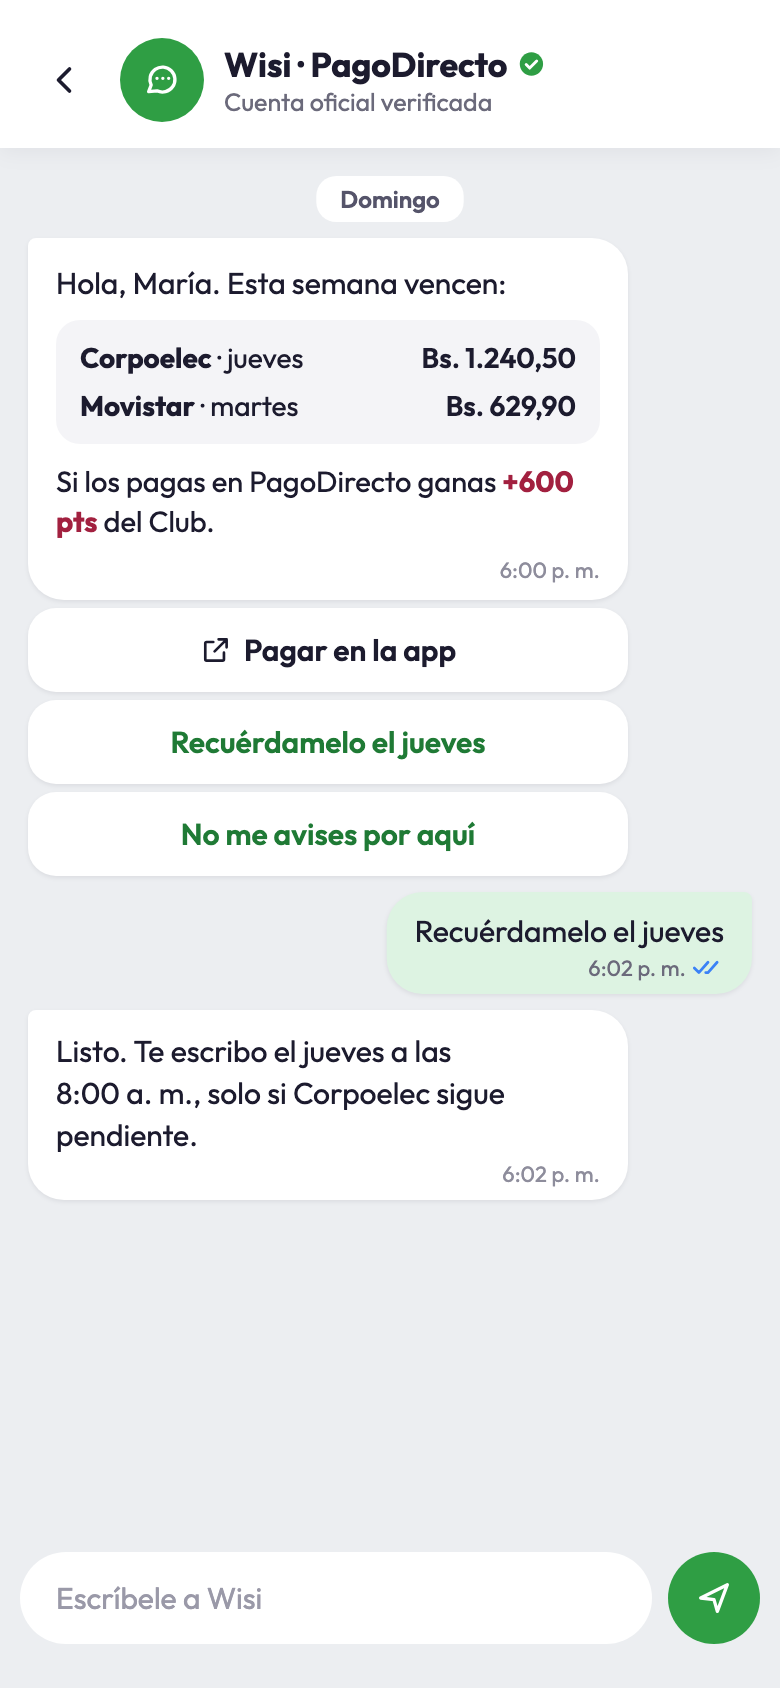
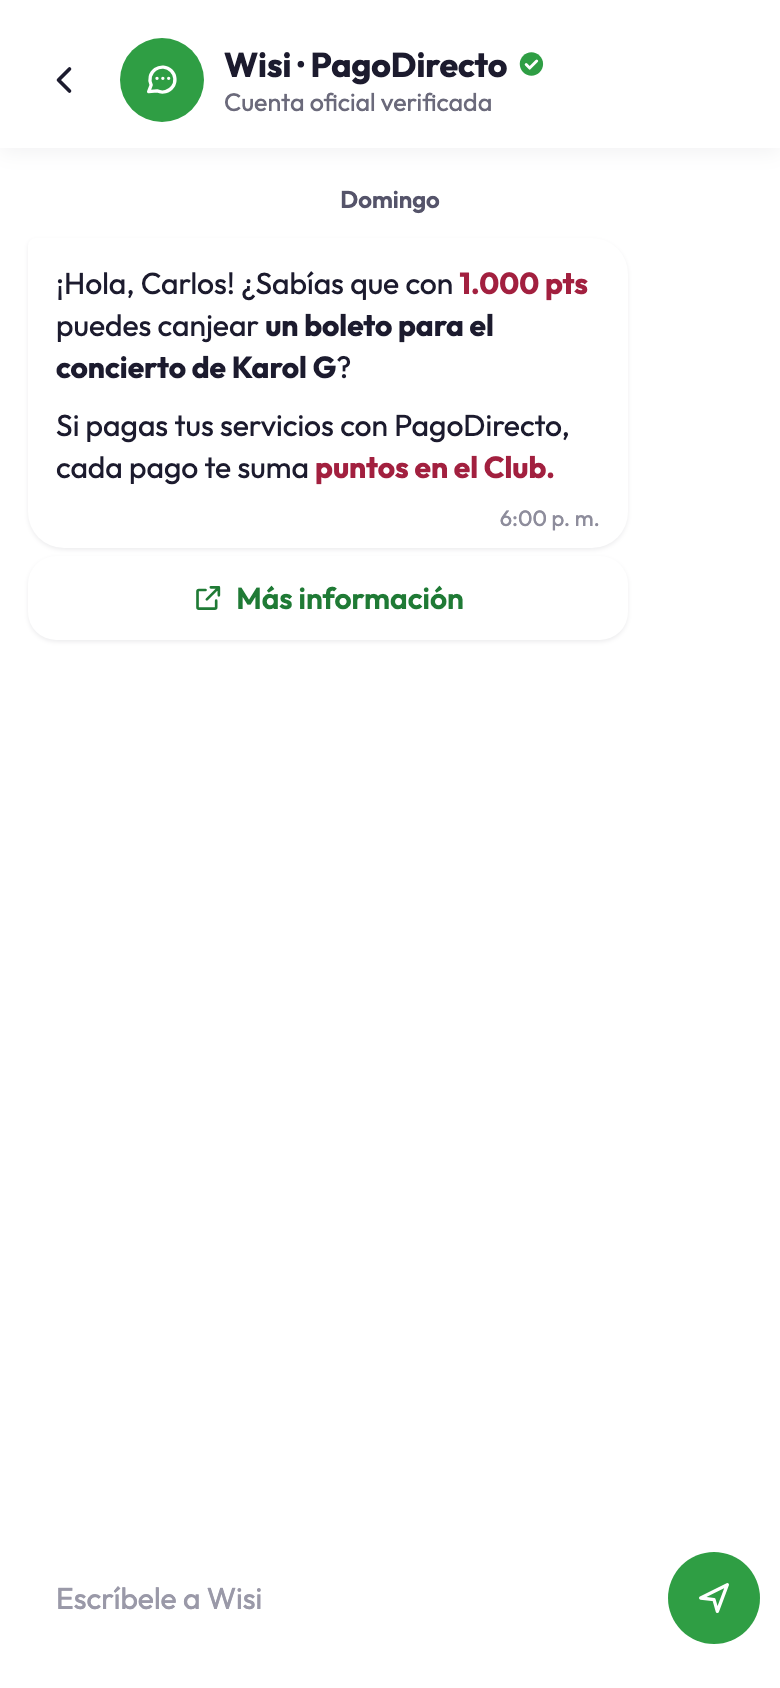
Update: Se cambio el mensaje de wisi

diff --git a/gtm_ventacruzada/lib/pantallas/wisi/pantalla_wisi.dart b/gtm_ventacruzada/lib/pantallas/wisi/pantalla_wisi.dart
@@ -3,18 +3,19 @@ import 'package:go_router/go_router.dart';
 
 import '../../componentes/icono.dart';
 import '../../componentes/presionable.dart';
+import '../../datos/datos_demo.dart';
 import '../../datos/demo_store.dart';
 import '../../datos/modelos.dart';
 import '../../tema/formato.dart';
 import '../../tema/tokens.dart';
 
-const _fondoChat = Color(0xFFECEEF1);
+const _fondoChat = PdColor.superficie;
 const _verdePropio = Color(0xFFDDF3E2);
 const _horaGris = Color(0xFF8E8D9C);
 final _sombraBurbuja = sombraCss(1, 2, const Color.fromRGBO(28, 27, 46, 0.08));
 
-/// P5 · Wisi por WhatsApp (simulado). El resumen del domingo se genera con los
-/// pagos pendientes y las respuestas rápidas tienen efecto real en la demo.
+/// P5 · Wisi por WhatsApp (simulado). El domingo Wisi no habla de deudas: usa
+/// un premio del Club como gancho y «Más información» lleva al Club.
 class PantallaWisi extends StatefulWidget {
   const PantallaWisi({super.key});
 
@@ -90,8 +91,8 @@ class _PantallaWisiState extends State<PantallaWisi> {
                 ),
                 for (final m in chat) ...[
                   const SizedBox(height: 8),
-                  if (m.tipo == TipoMensaje.resumen)
-                    _Resumen(mensaje: m)
+                  if (m.tipo == TipoMensaje.premio)
+                    _Premio(mensaje: m)
                   else if (m.deWisi)
                     _BurbujaWisi(texto: m.texto, hora: m.hora)
                   else
@@ -203,17 +204,18 @@ class _Encabezado extends StatelessWidget {
   }
 }
 
-/// Mensaje del domingo con la tabla de vencimientos y las respuestas rápidas.
-class _Resumen extends StatelessWidget {
-  const _Resumen({required this.mensaje});
+/// Mensaje del domingo: el premio del Club como gancho, sin montos ni
+/// vencimientos, y un solo botón que lleva al Club.
+class _Premio extends StatelessWidget {
+  const _Premio({required this.mensaje});
 
   final MensajeChat mensaje;
 
   @override
   Widget build(BuildContext context) {
-    final store = Demo.of(context);
-    final pendientes = store.pendientes;
-    final ocupado = store.wisiEscribiendo;
+    const rosa = TextStyle(color: PdColor.acentoOscuro, fontWeight: FontWeight.w700);
+    const fuerte = TextStyle(fontWeight: FontWeight.w700);
+    final cuerpo = letra(15, FontWeight.w400, PdColor.tinta, 1.4);
 
     return Align(
       alignment: Alignment.centerLeft,
@@ -237,59 +239,28 @@ class _Resumen extends StatelessWidget {
               child: Column(
                 crossAxisAlignment: CrossAxisAlignment.stretch,
                 children: [
-                  Text(
-                    pendientes.isEmpty
-                        ? '${mensaje.texto} Esta semana no tienes vencimientos.'
-                        : '${mensaje.texto} Esta semana vencen:',
-                    style: letra(15, FontWeight.w400, PdColor.tinta, 1.4),
+                  Text.rich(
+                    TextSpan(
+                      children: [
+                        TextSpan(text: '${mensaje.texto} ¿Sabías que con '),
+                        TextSpan(text: '${miles(premioWisi.puntos)} pts', style: rosa),
+                        const TextSpan(text: ' puedes canjear '),
+                        TextSpan(text: premioWisi.texto, style: fuerte),
+                        const TextSpan(text: '?'),
+                      ],
+                    ),
+                    style: cuerpo,
                   ),
-                  if (pendientes.isNotEmpty) ...[
-                    const SizedBox(height: 8),
-                    Container(
-                      padding: const EdgeInsets.symmetric(horizontal: 12, vertical: 10),
-                      decoration: BoxDecoration(color: PdColor.fondo, borderRadius: BorderRadius.circular(12)),
-                      child: Column(
-                        children: [
-                          for (final (i, p) in pendientes.indexed) ...[
-                            if (i > 0) const SizedBox(height: 6),
-                            Row(
-                              children: [
-                                Expanded(
-                                  child: Text.rich(
-                                    TextSpan(
-                                      children: [
-                                        TextSpan(
-                                          text: p.empresa,
-                                          style: const TextStyle(fontWeight: FontWeight.w700),
-                                        ),
-                                        TextSpan(text: ' · ${diaSemana(p.vence)}'),
-                                      ],
-                                    ),
-                                    style: letra(14),
-                                  ),
-                                ),
-                                Text(bsPunto(p.centimos), style: letra(14, FontWeight.w600)),
-                              ],
-                            ),
-                          ],
-                        ],
-                      ),
+                  const SizedBox(height: 8),
+                  Text.rich(
+                    const TextSpan(
+                      children: [
+                        TextSpan(text: 'Si pagas tus servicios con PagoDirecto, cada pago te suma '),
+                        TextSpan(text: 'puntos en el Club.', style: rosa),
+                      ],
                     ),
-                    const SizedBox(height: 8),
-                    Text.rich(
-                      TextSpan(
-                        children: [
-                          const TextSpan(text: 'Si los pagas en PagoDirecto ganas '),
-                          TextSpan(
-                            text: pts(store.puntosPendientes),
-                            style: const TextStyle(color: PdColor.acentoOscuro, fontWeight: FontWeight.w700),
-                          ),
-                          const TextSpan(text: ' del Club.'),
-                        ],
-                      ),
-                      style: letra(14.5, FontWeight.w400, PdColor.tinta, 1.4),
-                    ),
-                  ],
+                    style: cuerpo,
+                  ),
                   const SizedBox(height: 8),
                   Align(
                     alignment: Alignment.centerRight,
@@ -299,24 +270,7 @@ class _Resumen extends StatelessWidget {
               ),
             ),
             const SizedBox(height: 4),
-            _Respuesta(
-              texto: store.textoRespuesta(RespuestaWisi.pagarEnApp),
-              icono: Ico.abrirExterno,
-              color: PdColor.tinta,
-              onTap: () => context.go('/mis-pagos'),
-            ),
-            const SizedBox(height: 4),
-            _Respuesta(
-              texto: store.textoRespuesta(RespuestaWisi.recordarJueves),
-              onTap: ocupado ? null : () => store.responderWisi(RespuestaWisi.recordarJueves),
-            ),
-            const SizedBox(height: 4),
-            _Respuesta(
-              texto: store.textoRespuesta(RespuestaWisi.noAvisarAqui),
-              onTap: ocupado || !store.perfil.ajustes.whatsapp
-                  ? null
-                  : () => store.responderWisi(RespuestaWisi.noAvisarAqui),
-            ),
+            _Respuesta(texto: 'Más información', icono: Ico.abrirExterno, onTap: () => context.push('/club')),
           ],
         ),
       ),
@@ -325,12 +279,13 @@ class _Resumen extends StatelessWidget {
 }
 
 class _Respuesta extends StatelessWidget {
-  const _Respuesta({required this.texto, required this.onTap, this.icono, this.color = PdColor.exitoTexto});
+  const _Respuesta({required this.texto, required this.onTap, this.icono});
 
   final String texto;
-  final VoidCallback? onTap;
+  final VoidCallback onTap;
   final Ico? icono;
-  final Color color;
+
+  static const _color = PdColor.exitoTexto;
 
   @override
   Widget build(BuildContext context) {
@@ -349,8 +304,8 @@ class _Respuesta extends StatelessWidget {
         child: Row(
           mainAxisSize: MainAxisSize.min,
           children: [
-            if (icono != null) ...[IconoPd(icono!, tamano: 16, color: color), const SizedBox(width: 6)],
-            Text(texto, style: letra(15, FontWeight.w600, color)),
+            if (icono != null) ...[IconoPd(icono!, tamano: 16, color: _color), const SizedBox(width: 6)],
+            Text(texto, style: letra(15, FontWeight.w600, _color)),
           ],
         ),
       ),

diff --git a/gtm_ventacruzada/lib/datos/demo_store.dart b/gtm_ventacruzada/lib/datos/demo_store.dart
@@ -55,13 +55,6 @@ class DemoStore extends ChangeNotifier {
   static const puntosPrimerServicio = 200;
   static const puntosPrimeraVez = 100;
 
-  /// El pago al que Wisi se refiere: el de riesgo de corte o, si no, el primero.
-  Pago? get pagoClave {
-    final p = pendientes;
-    if (p.isEmpty) return null;
-    return p.firstWhere((x) => x.prioritario, orElse: () => p.first);
-  }
-
   /// Las misiones de pagar un servicio desaparecen cuando ya está pagado.
   List<Mision> get misiones => perfil.misiones
       .where((m) => m.accion != AccionMision.pagarServicio || pendientes.any((p) => p.id == m.id))
@@ -208,9 +201,9 @@ class DemoStore extends ChangeNotifier {
     perfil.chat.add(
       MensajeChat(
         deWisi: true,
-        texto: 'Hola, ${perfil.nombre}.',
+        texto: '¡Hola, ${perfil.nombre}!',
         hora: hora(perfil.ajustes.hora),
-        tipo: TipoMensaje.resumen,
+        tipo: TipoMensaje.premio,
       ),
     );
   }
@@ -221,37 +214,7 @@ class DemoStore extends ChangeNotifier {
     return hora(TimeOfDay(hour: minutos ~/ 60 % 24, minute: minutos % 60));
   }
 
-  String textoRespuesta(RespuestaWisi r) => switch (r) {
-    RespuestaWisi.pagarEnApp => 'Pagar en la app',
-    RespuestaWisi.recordarJueves =>
-      pagoClave == null ? 'Recuérdamelo luego' : 'Recuérdamelo el ${diaSemana(pagoClave!.vence)}',
-    RespuestaWisi.noAvisarAqui => 'No me avises por aquí',
-  };
-
-  Future<void> responderWisi(RespuestaWisi r) async {
-    if (r == RespuestaWisi.pagarEnApp || wisiEscribiendo) return;
-    final clave = pagoClave;
-    perfil.chat.add(MensajeChat(deWisi: false, texto: textoRespuesta(r), hora: _horaRespuesta));
-    wisiEscribiendo = true;
-    notifyListeners();
-
-    await Future<void>.delayed(const Duration(milliseconds: 900));
-    final respuesta = switch (r) {
-      RespuestaWisi.recordarJueves when clave != null =>
-        'Listo. Te escribo el ${diaSemana(clave.vence)} a las ${hora(const TimeOfDay(hour: 8, minute: 0))}, '
-            'solo si ${clave.empresa} sigue pendiente.',
-      RespuestaWisi.recordarJueves => 'Ya estás al día. Te escribo con tu próximo resumen.',
-      _ =>
-        'Hecho. No te escribo más por aquí. Tu resumen sigue llegando en la app '
-            'y puedes cambiarlo en Tus avisos.',
-    };
-    if (r == RespuestaWisi.noAvisarAqui) perfil.ajustes.whatsapp = false;
-    perfil.chat.add(MensajeChat(deWisi: true, texto: respuesta, hora: _horaRespuesta));
-    wisiEscribiendo = false;
-    notifyListeners();
-  }
-
-  /// Texto libre: Wisi solo entiende los botones en la demo.
+  /// Texto libre: en la demo Wisi responde siempre lo mismo.
   Future<void> escribirAWisi(String texto) async {
     if (texto.trim().isEmpty || wisiEscribiendo) return;
     perfil.chat.add(MensajeChat(deWisi: false, texto: texto.trim(), hora: _horaRespuesta));
@@ -261,7 +224,7 @@ class DemoStore extends ChangeNotifier {
     perfil.chat.add(
       MensajeChat(
         deWisi: true,
-        texto: 'Por ahora te ayudo con los botones de arriba: pagar, recordarte o dejar de escribirte por aquí.',
+        texto: 'Toca «Más información» y te cuento cómo sumar puntos en el Club con tus pagos.',
         hora: _horaRespuesta,
       ),
     );

diff --git a/gtm_ventacruzada/test/widget_test.dart b/gtm_ventacruzada/test/widget_test.dart
@@ -133,18 +133,25 @@ void main() {
     expect(tester.takeException(), isNull);
   });
 
-  testWidgets('Wisi responde y «No me avises por aquí» apaga WhatsApp (P5, P8)', (tester) async {
-    final store = await abrir(tester, ruta: '/wisi');
-    expect(find.text('Hola, María. Esta semana vencen:'), findsOneWidget);
-    await tocar(tester, 'Recuérdamelo el jueves');
-    await tester.pump(const Duration(seconds: 1));
-    await tester.pumpAndSettle();
-    expect(find.text('Listo. Te escribo el jueves a las 8:00\u00A0a.\u00A0m., solo si Corpoelec sigue pendiente.'), findsOneWidget);
+  testWidgets('Wisi engancha con el premio, sin montos, y «Más información» abre el Club (P5)', (tester) async {
+    final store = await abrir(tester, ruta: '/wisi?perfil=carlos');
+    expect(
+      find.text(
+        '¡Hola, Carlos! ¿Sabías que con 1.000 pts puedes canjear un boleto para el concierto de Karol G?',
+        findRichText: true,
+      ),
+      findsOneWidget,
+    );
+    expect(find.textContaining('Bs', findRichText: true), findsNothing);
 
-    await tocar(tester, 'No me avises por aquí');
+    await tester.enterText(find.byType(TextField), 'Hola');
+    await tester.testTextInput.receiveAction(TextInputAction.send);
     await tester.pump(const Duration(seconds: 1));
     await tester.pumpAndSettle();
-    expect(store.perfil.ajustes.whatsapp, isFalse);
+    expect(store.perfil.chat.length, 3);
+
+    await tocar(tester, 'Más información');
+    expect(find.text('Misiones para ti'), findsOneWidget);
     expect(tester.takeException(), isNull);
   });
 

diff --git a/gtm_ventacruzada/lib/componentes/icono.dart b/gtm_ventacruzada/lib/componentes/icono.dart
@@ -37,9 +37,7 @@ enum Ico {
   depositar(
     '<svg viewBox="0 0 24 24" fill="none" stroke="currentColor" stroke-width="1.8" stroke-linecap="round" stroke-linejoin="round"><rect x="3" y="7" width="18" height="12" rx="3"/><path d="M8 13h8M12 9v8"/></svg>',
   ),
-  desplegar(
-    '<svg viewBox="0 0 24 24" fill="currentColor"><path d="M5 8h14l-7 9z"/></svg>',
-  ),
+  desplegar('<svg viewBox="0 0 24 24" fill="currentColor"><path d="M5 8h14l-7 9z"/></svg>'),
   dobleCheck(
     '<svg viewBox="0 0 28 16" fill="none" stroke="currentColor" stroke-width="2.4" stroke-linecap="round" stroke-linejoin="round"><path d="M2 8l4 4 8-9M12 12l2 0M14 12l8-9"/></svg>',
   ),

diff --git a/gtm_ventacruzada/tool/capturas_test.dart b/gtm_ventacruzada/tool/capturas_test.dart
@@ -23,7 +23,7 @@ const _pantallas = <(String, String, List<double>, String?)>[
   ('p02_inicio_carlos', '/inicio?perfil=carlos', [0.0], null),
   ('p03_anadir_directorio', '/mis-pagos/afiliar?perfil=carlos', [0.0], null),
   ('p04_resumen_semanal', '/resumen', [0.0], null),
-  ('p05_wisi_whatsapp', '/wisi', [0.0], 'Recuérdamelo el jueves'),
+  ('p05_wisi_whatsapp', '/wisi?perfil=carlos', [0.0], null),
   ('p06_mis_pagos', '/mis-pagos', [0.0], null),
   ('p07_semana_al_dia', '/mis-pagos/listo', [0.0], null),
   ('p08_tus_avisos', '/avisos', [0.0], null),

diff --git a/gtm_ventacruzada/lib/datos/modelos.dart b/gtm_ventacruzada/lib/datos/modelos.dart
@@ -114,8 +114,8 @@ class AjustesAvisos {
 }
 
 enum TipoMensaje {
-  /// Mensaje del domingo con la tabla de vencimientos.
-  resumen,
+  /// Mensaje del domingo: el premio del Club como gancho, sin hablar de deudas.
+  premio,
   texto,
 }
 
@@ -127,8 +127,6 @@ class MensajeChat {
   final String hora;
   final TipoMensaje tipo;
 }
-
-enum RespuestaWisi { pagarEnApp, recordarJueves, noAvisarAqui }
 
 class TicketEstacionamiento {
   const TicketEstacionamiento({

diff --git a/gtm_ventacruzada/lib/datos/datos_demo.dart b/gtm_ventacruzada/lib/datos/datos_demo.dart
@@ -16,6 +16,9 @@ const canjesDemo = [
   Canje(titulo: '1 ticket extra de Credirecto', puntos: 1500, credirecto: true),
 ];
 
+/// Premio que Wisi usa de gancho en WhatsApp (P5).
+const premioWisi = (texto: 'un boleto para el concierto de Karol G', puntos: 1000);
+
 /// Servicios que se pueden afiliar en P3 y la factura que «encuentra» la búsqueda.
 const serviciosAfiliables = ['Corpoelec', 'Movistar', 'CANTV', 'Hidrocapital'];
 
